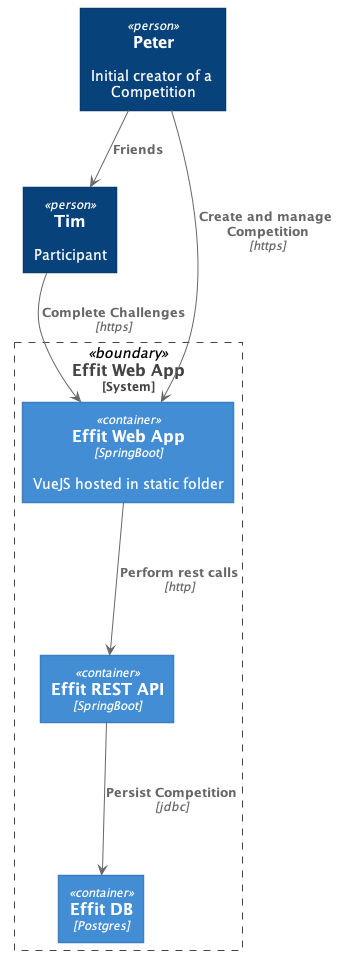
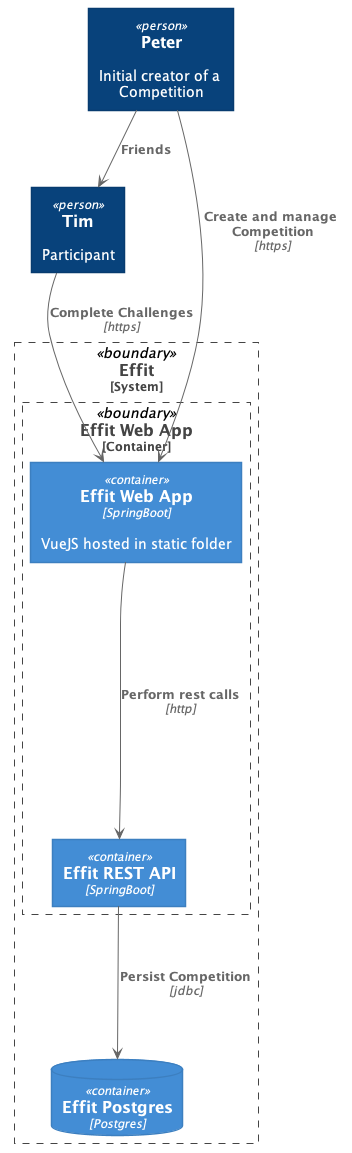
Changed ContainerDiagram + added Flow diagram

Changed region(s): [[0.0288, 0.0, 0.951, 1.0], [0.7205, 0.875, 0.7493, 0.9688], [0.7205, 0.8125, 0.7493, 0.8438]]

diff --git a/docs/diagrams.md b/docs/diagrams.md
@@ -1,0 +1,5 @@
+## C4 Container Diagram
+![](diagrams/C4_ContainerDiagram.png)
+
+## System flow Diagram
+![](diagrams/Flows.png)
